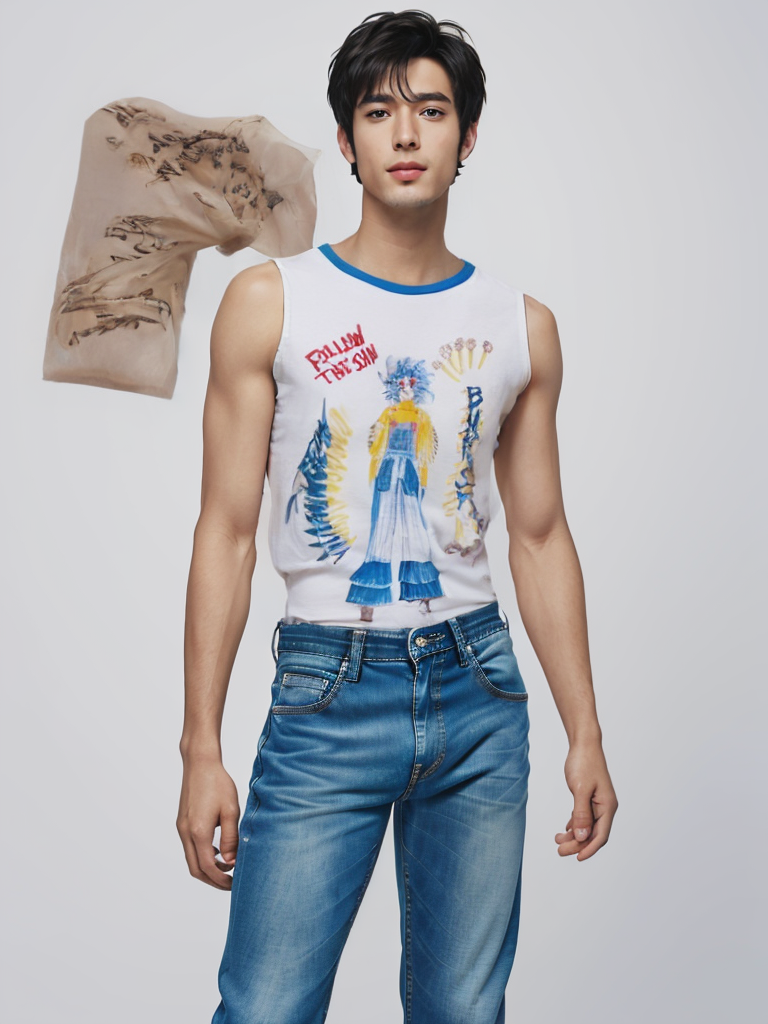
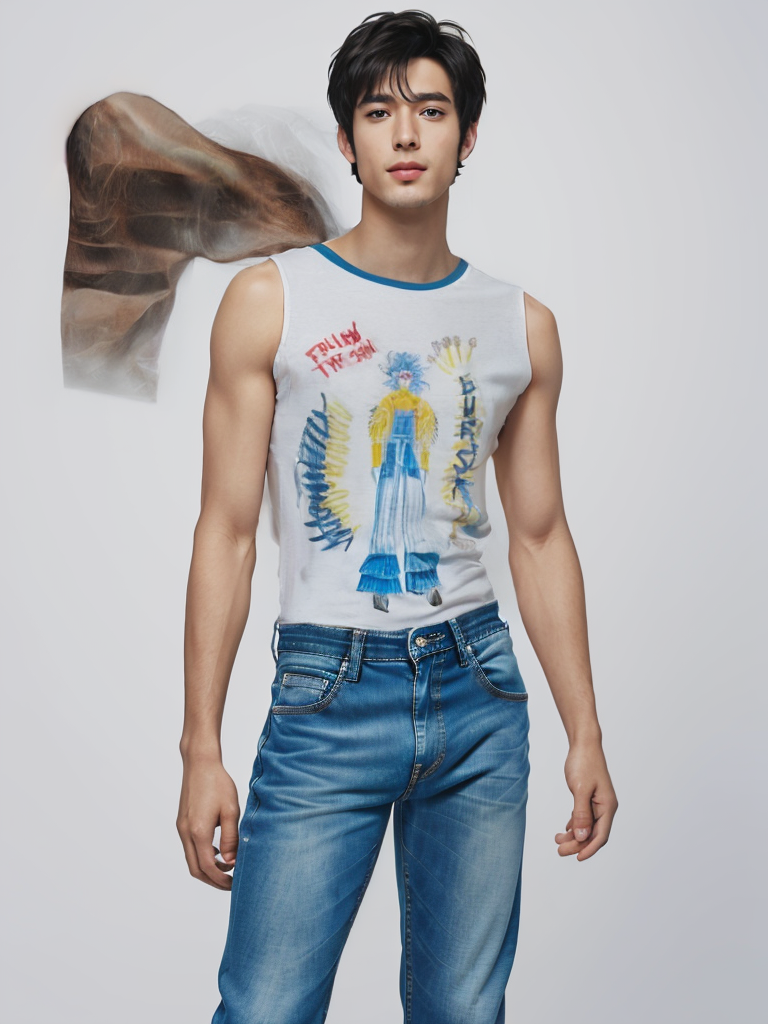
fix: morphological erosion to sever mask bridges

Changed region(s): [[0.0312, 0.0625, 0.6875, 0.625], [0.3438, 0.375, 0.375, 0.4062]]

diff --git a/wearcast/inference_wearcast_hd.py b/wearcast/inference_wearcast_hd.py
@@ -855,6 +855,47 @@ class WearCastHD:
             source_height = model_parse.height
             scale_factor = height / float(source_height)
             
+            # ------------------------------------------------------------------
+            # Torso-Centric Blob Filtering (BEFORE Dilation)
+            # Includes Morphological Opening to sever weak bridges to floating background objects
+            # ------------------------------------------------------------------
+            if category_norm in ('upper_body', 'dresses'):
+                parse_mask_uint8 = (parse_mask > 0).astype(np.uint8)
+                
+                # Erode to break thin bridges between shirt and background noise
+                kernel_erode = np.ones((15, 15), np.uint8)
+                eroded_mask = cv2.erode(parse_mask_uint8, kernel_erode, iterations=1)
+                
+                num_labels, labels, stats, centroids = cv2.connectedComponentsWithStats(eroded_mask)
+                
+                if num_labels > 1:
+                    # Target: Torso Center
+                    s_r = np.multiply(tuple(pose_data[2][:2]), scale_factor)
+                    s_l = np.multiply(tuple(pose_data[5][:2]), scale_factor)
+                    neck = np.multiply(tuple(pose_data[1][:2]), scale_factor)
+                    t_x = neck[0] if neck[0] > 1 else (s_r[0] + s_l[0]) / 2
+                    t_y = neck[1] if neck[1] > 1 else (s_r[1] + s_l[1]) / 2
+                    
+                    if t_y > 1:
+                        # Find blob with centroid closest to torso target
+                        best_label = -1
+                        min_dist = 999999
+                        for i in range(1, num_labels):
+                            dist = np.sqrt((centroids[i][0] - t_x)**2 + (centroids[i][1] - t_y)**2)
+                            # Area check: ignore tiny dust blobs
+                            if stats[i][cv2.CC_STAT_AREA] > 500 and dist < min_dist:
+                                min_dist = dist
+                                best_label = i
+                        
+                        if best_label != -1:
+                            # Keep only the best blob
+                            isolated_blob = (labels == best_label).astype(np.uint8)
+                            # Dilate back to restore original boundaries lost during erosion
+                            isolated_blob = cv2.dilate(isolated_blob, kernel_erode, iterations=1)
+                            # Intersect with original mask to ensure we don't expand beyond original parsing
+                            parse_mask = np.logical_and(parse_mask_uint8, isolated_blob).astype(np.float32)
+                            print(f"   [MASK_GEN] Kept eroded blob #{best_label} (dist={min_dist:.1f}px) and severed background connections.")
+            
             shoulder_right = np.multiply(tuple(pose_data[2][:2]), scale_factor)
             shoulder_left  = np.multiply(tuple(pose_data[5][:2]), scale_factor)
             elbow_right    = np.multiply(tuple(pose_data[3][:2]), scale_factor)
